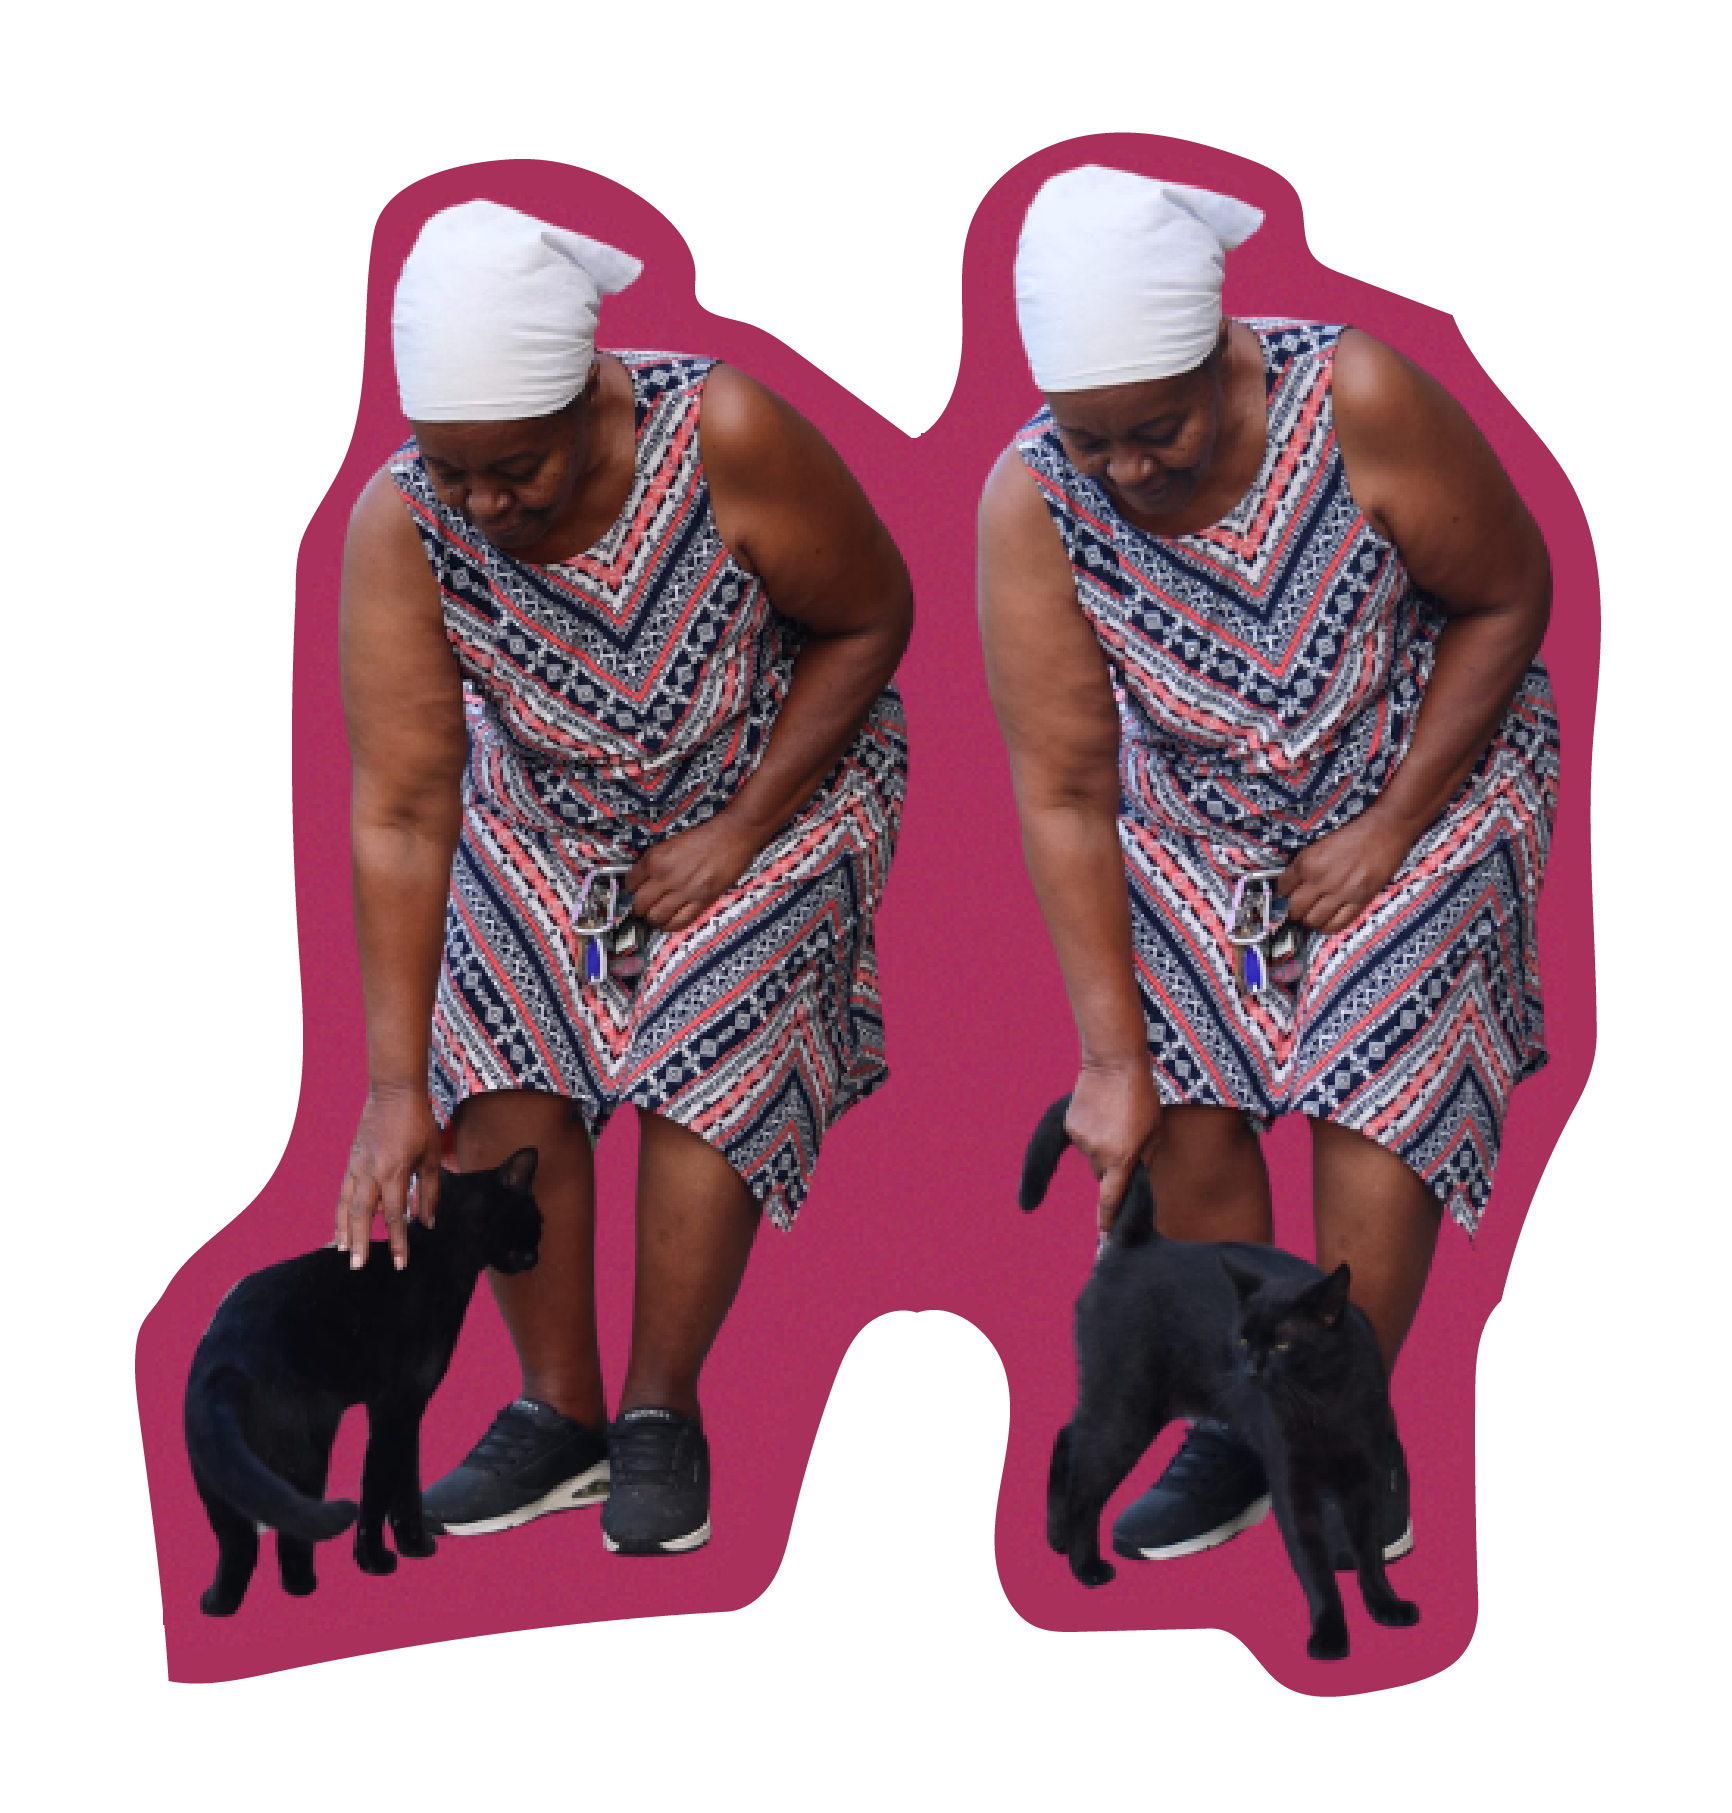
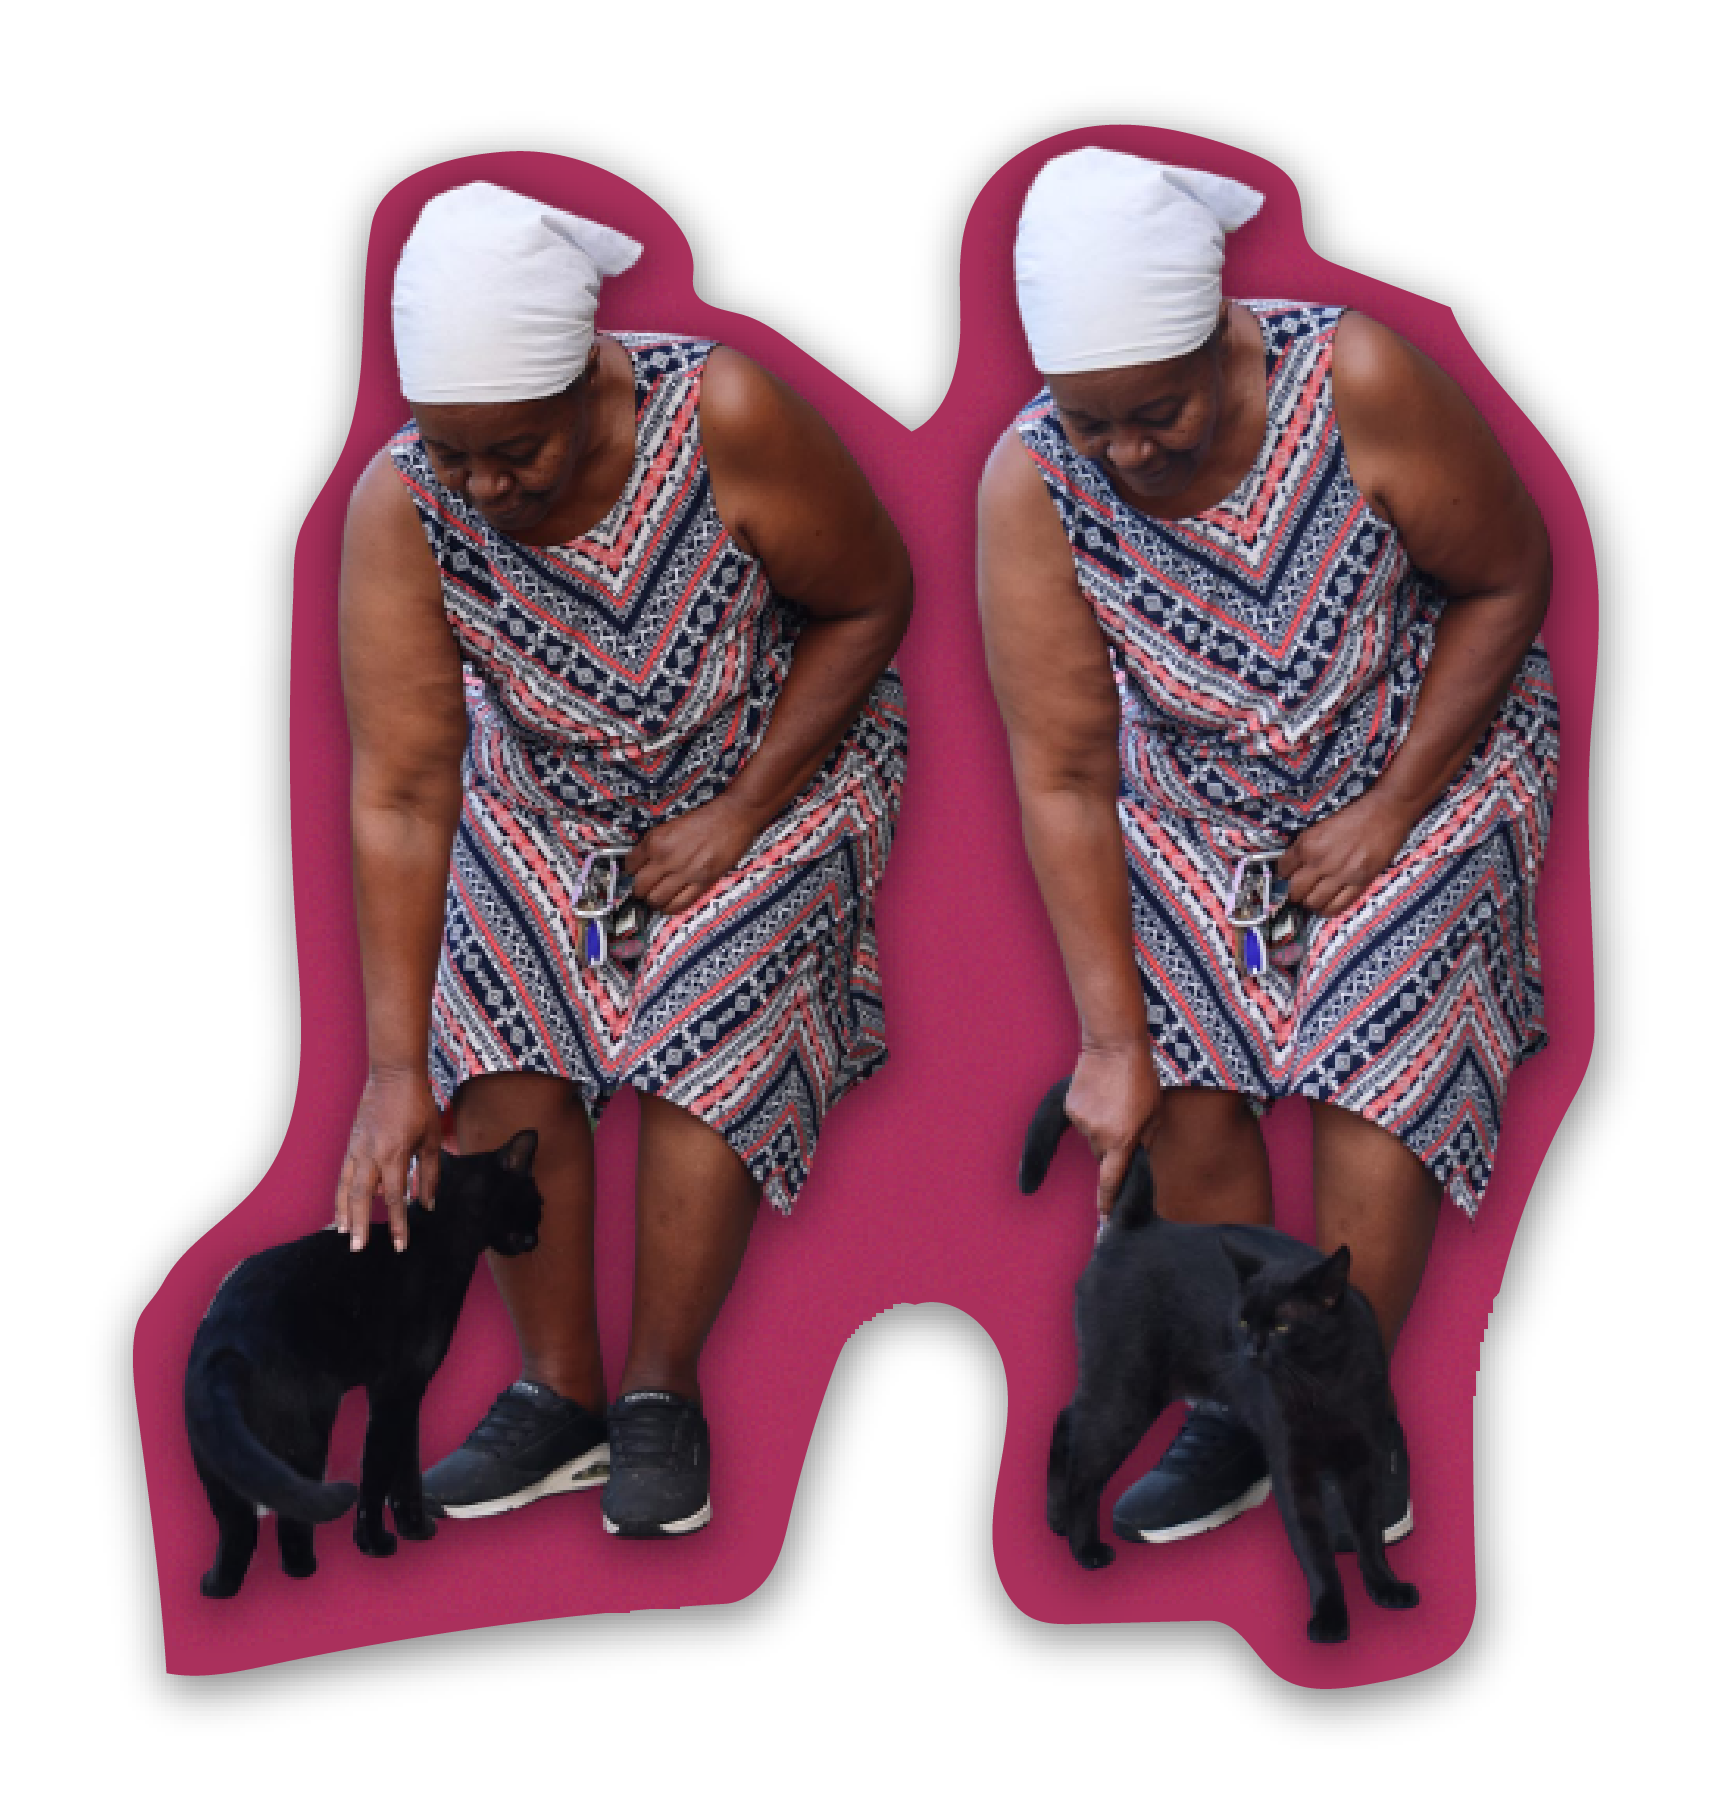
Add source links, curly quotes throughout, and link styling
Links the story's sourced claims (grocery prices, USDA food plans and
cost reports, Ohio JFS SNAP calculation, pandemic SNAP allotments,
OSHIIP, Options for Independent Living, county budget cuts), styles
links in the copy teal and underlined, and converts the remaining
straight quotes and apostrophes to curly.

Changed region(s): [[0.0624, 0.0618, 0.9353, 0.9575]]

diff --git a/senior-story.html b/senior-story.html
@@ -555,6 +555,12 @@
   }
 
   .card p { margin-top: 0; margin-bottom: 1.1em; }
+  /* Links in the story copy: teal, underlined, like the note-card links. */
+  .card p a {
+    color: var(--teal);
+    text-decoration: underline;
+    text-underline-offset: 0.2em;
+  }
 
   /* An in-card photo whose caption is a label graphic: on desktop the label
      overlaps the photo's top-left corner; on phones it sits right below. */
@@ -1078,9 +1084,9 @@
 
     <img class="cutout" src="mary%20kitty.png" width="1732" height="1813" alt="Mary Kennedy bends down to pet two black cats.">
 
-    <p>“I wouldn't turn a person down that needs help,” she said. On top of sharing food, Kennedy tries to organize grocery trips among her neighbors at Kingsbury Tower, a senior apartment building, so no one has to go alone.</p>
-
-    <p>Across Cleveland, more and more seniors do need help. As grocery prices rise and the county’s population ages, the Greater Cleveland Food Bank saw demand among people over 60 grow 45% between 2019 and 2025, more steeply than adults and kids in the same time period.</p>
+    <p>“I wouldn’t turn a person down that needs help,” she said.</p>
+      
+      <p>Across Cleveland, more and more seniors do need help. As <a href="https://www.forbes.com/sites/tylerroush/2026/05/15/heres-how-a-typical-bag-of-groceries-in-2020-costs-over-50-more-today/">grocery prices rise</a> and the county’s population ages, the Greater Cleveland Food Bank saw demand among people over 60 grow 45% between 2019 and 2025, more steeply than adults and kids in the same time period. </p>
 
     <p>“Many of our older adults are living on fixed income. So if they only have so much resource in a month, yet their living expenses are increasing, we see older adults having to make really tough choices,” said Jessica Morgan, the chief programs officer at the Greater Cleveland Food Bank.</p>
 
@@ -1144,17 +1150,17 @@
     </figure>
 
     <div class="card">
-      <h2>Seniors say SNAP is shrinking</h2>
+      <h2>SNAP benefits fall far short of grocery costs, some seniors say</h2>
 
       <p>Many seniors I spoke with still received SNAP benefits in spite of the new work requirements, which don’t apply to people over 65.</p>
 
-      <p>But they had their own issues with the program: Namely, that it paid for barely a fraction of their grocery bill. The federal government estimates it costs women over 70 about $260 a month to feed themselves on the thriftiest possible budget. But eighty-six-year-old Mabel Messam gets a little over $20 a month. Seventy-one-year-old Mary Morris gets $50 a month. Anna Washington, who is over 65 but declined to share her specific age, gets $26 a month — enough for a “loaf of bread and milk,” she joked.</p>
+      <p>But they had their own issues with the program: Namely, that it paid for barely a fraction of their grocery bill. The <a href="https://www.fns.usda.gov/research/cnpp/usda-food-plans/cost-food-monthly-reports">federal government estimates</a> it costs women over 70 about $260 a month to feed themselves on the thriftiest possible budget. But eighty-six-year-old Mabel Messam gets a little over $20 a month. Seventy-one-year-old Mary Morris gets $50 a month. Anna Washington, who is over 65 but declined to share her specific age, gets $26 a month — enough for a “loaf of bread and milk,” she joked.</p>
 
       <p>Nikki Williams, the social service coordinator for Kingsbury Tower, helps residents at the building sign up for SNAP. But many turn her down, daunted by the required paperwork and frustrated with the small allotments.</p>
 
       <p>“They don’t even want to go through it for the $23,” Williams said. “They’re like, it’s not even worth the headache.”</p>
 
-      <p>The food bank also hears complaints from seniors about how much they get from SNAP, Morgan said. She suspected that it’s mostly due to how the benefits are calculated — an opaque system that accounts for residents’ income, household size, savings, monthly rent and utility costs. Any Social Security income or retirement counts against recipients, as does smaller family size. The program also assumes residents will stick to the cheapest possible food budget and spend 30% of their own income on groceries.</p>
+      <p>The food bank also hears complaints from seniors about how much they get from SNAP, Morgan said. She suspected that it’s mostly due to how the benefits are calculated — <a href="https://odjfsebs.my.salesforce.com/sfc/p/#820000008gJ9/a/cs00000zbMPq/Qk4Nr2e1WBticThA4hs7kEH1m05rrKYaXP7o5CBf63w">an opaque system</a> that accounts for residents’ income, household size, savings, monthly rent and utility costs. Any Social Security income or retirement counts against recipients, as does smaller family size. The program also assumes residents will stick to the <a href="https://www.fns.usda.gov/research/cnpp/usda-food-plans">cheapest possible food budget</a> and <a href="https://www.fns.usda.gov/snap/recipient/eligibility">spend 30% of their own income</a> on groceries.</p>
 
       <p>Still, the women I spoke to said the measly amount of assistance they receive feels far from the reality that ground beef costs nearly $7 a pound.</p>
 
@@ -1162,7 +1168,7 @@
 
       <p>The most frustrating part for many was that they used to receive more help. In the last couple of years, Valeria Ray, 77, remembers getting $100 a month in SNAP. Now, she receives $24 a month. She’s not sure why it’s shrunk, given the cost of groceries.</p>
 
-      <p>It may be because of the expiration of COVID-era benefits, said Emily Campbell, the president and chief executive officer for the Center for Community Solutions. During COVID, the federal government temporarily beefed up the amount residents received to spend on food. That expired in March 2023. Older adults who qualify for the lowest amount of SNAP benefits saw the steepest drop, falling from $281 to $23, according to the Food Research and Action Center.</p>
+      <p>It may be because of the expiration of COVID-era benefits, said Emily Campbell, the president and chief executive officer for the Center for Community Solutions. During COVID, the federal government temporarily beefed up the amount residents received to spend on food. That <a href="https://www.cbpp.org/research/food-assistance/temporary-pandemic-snap-benefits-will-end-in-remaining-35-states-in-march">expired in March 2023</a>. Older adults who qualify for the lowest amount of SNAP benefits saw the steepest drop, falling from $281 to $23, according to the <a href="https://frac.org/programs/supplemental-nutrition-assistance-program-snap/emergency-allotments">Food Research and Action Center</a>.</p>
     </div>
   </div>
 
@@ -1196,7 +1202,7 @@
       <p>The challenge? To get an over-the-counter card, residents need the right kind of insurance. Only Medicare Advantage plans — instead of traditional Medicare — offer these cards, said Becky Hayward, an outreach and education supervisor through Ohio’s Senior Health Insurance Information Program. Special plans targeted at people with severe chronic illnesses or whose income is low enough to also qualify for Medicaid are most likely to have these benefits, she added. Insurance plans often only allow the money to be spent on groceries if residents have a qualifying health condition, like diabetes.</p>
 
       <aside class="note">
-        <p>The Ohio Senior Health Insurance Information Program provides Medicare beneficiaries with free, objective, health insurance information and one-on-one counseling. OSHIIP’s hotline experts and trained volunteers educate consumers about Medicare and other health insurance matters. The program can be reached by phone at <a href="tel:+18006861578">800-686-1578</a>.</p>
+        <p>The <a href="https://insurance.ohio.gov/consumers/medicare/01-oshiip">Ohio Senior Health Insurance Information Program</a> provides Medicare beneficiaries with free, objective, health insurance information and one-on-one counseling. OSHIIP’s hotline experts and trained volunteers educate consumers about Medicare and other health insurance matters. The program can be reached by phone at <a href="tel:+18006861578">800-686-1578</a>.</p>
       </aside>
     </div>
   </div>
@@ -1218,7 +1224,7 @@
 
       <p>Esquivel spent years working as a chef but was laid off after COVID. After that, he needed back surgery. He can still walk, but he typically uses a rollator to get around. The crockpot is his solution.</p>
 
-      <p>“If I put it in a crock pot, I'm not over the stove all day,” Esquivel said.</p>
+      <p>“If I put it in a crock pot, I’m not over the stove all day,” Esquivel said.</p>
 
       <p>For some seniors, the ability to physically shop for and cook food is nearly as tough as rising prices. Home-delivered meals eliminate most of these challenges — a “blessing,” said seventy-year-old Ann Ferguson, who receives them from St. Martin de Porres Family Center. She lives by herself and doesn’t cook much anymore. She is still mobile, but her hands are not functioning like they used to after working as a seamstress for over forty years, she said.</p>
     </div>
@@ -1237,7 +1243,7 @@
 
       <p>Some providers have a waitlist, though, Tomsick said. Funding isn’t the only limiting factor. Having enough volunteers to deliver can be, too, he said.</p>
 
-      <p>Other agencies that offer affordable or free meal deliveries are also seeing demand outstrip supply. The Benjamin Rose Institute’s Meals on Wheels program has a waitlist, wrote Julie Hayes, the organization’s marketing manager. So does Cuyahoga County, which delivers seniors twenty meals a month for $5 through its Options for Independent Living program. The number of meals per senior it’s able to pass out each month also shrank this year due to county budget cuts, said Natasha Pietrocola, the director of Cuyahoga County’s Division of Senior and Adult Services.</p>
+      <p>Other agencies that offer affordable or free meal deliveries are also seeing demand outstrip supply. The Benjamin Rose Institute’s Meals on Wheels program has a waitlist, wrote Julie Hayes, the organization’s marketing manager. So does Cuyahoga County, which delivers seniors twenty meals a month for $5 through its <a href="https://hhs.cuyahogacounty.gov/programs/options-for-independent-living">Options for Independent Living program</a>. The number of meals per senior it’s able to pass out each month also shrank this year due to <a href="https://signalcleveland.org/what-cuyahoga-countys-final-budget-means-for-social-services/">county budget cuts</a>, said Natasha Pietrocola, the director of Cuyahoga County’s Division of Senior and Adult Services.</p>
     </div>
   </div>
 
@@ -1269,7 +1275,7 @@
 
       <p>Early on, Elam — who often goes by Miss Pat — thought about quitting. An older gentleman discouraged her from doing so.</p>
 
-      <p>“He said, ‘Miss Pat, honestly, if you don't do it, I won't eat,’” Elam said.</p>
+      <p>“He said, ‘Miss Pat, honestly, if you don’t do it, I won’t eat,’” Elam said.</p>
     </div>
   </div>
 
